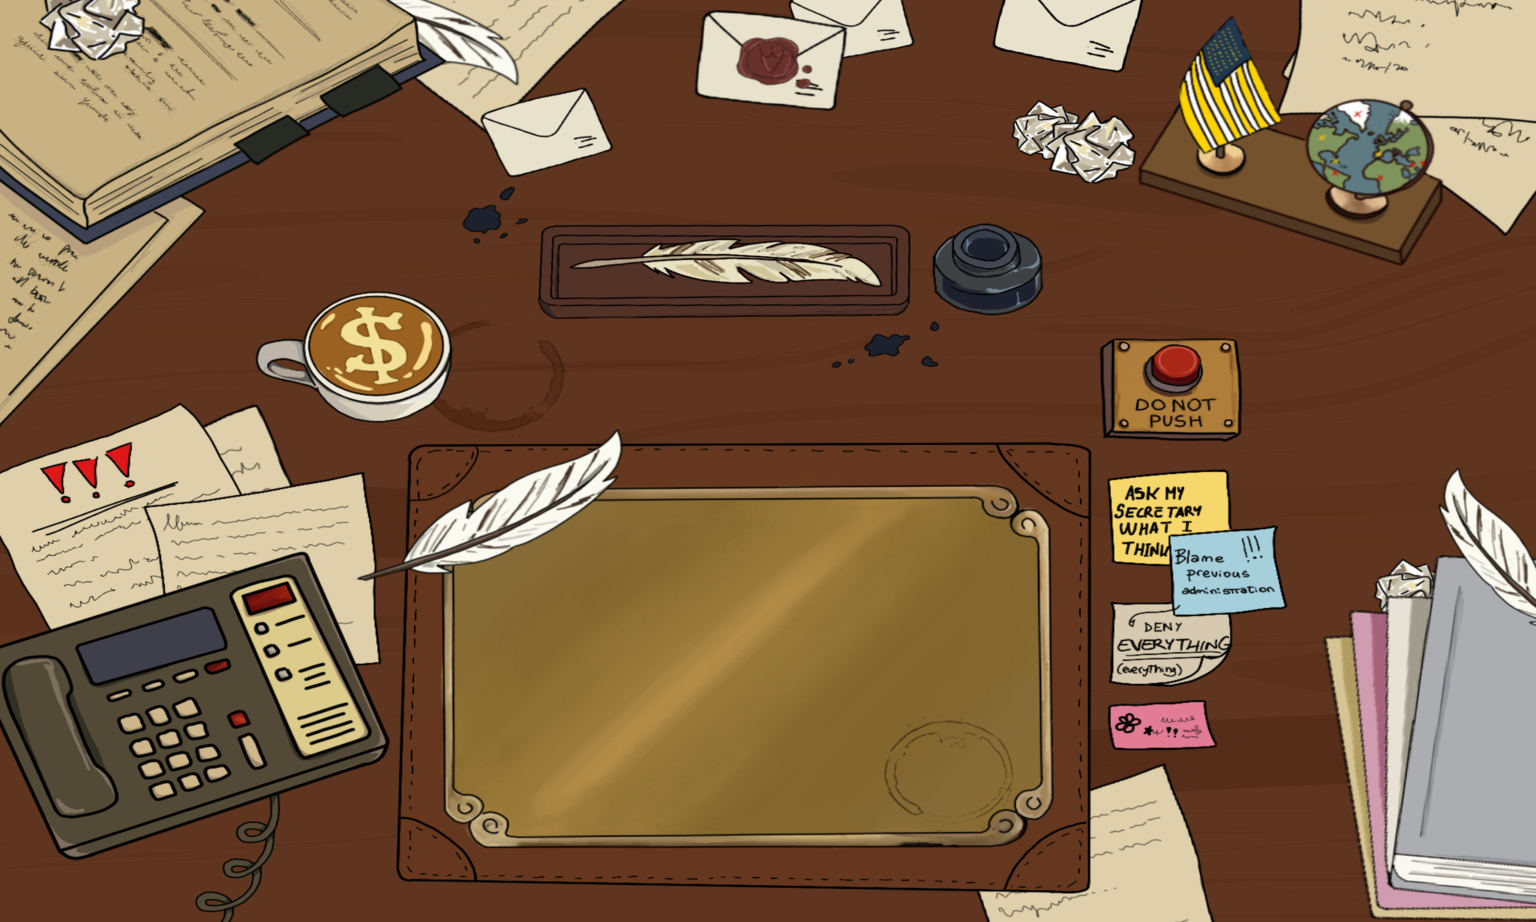
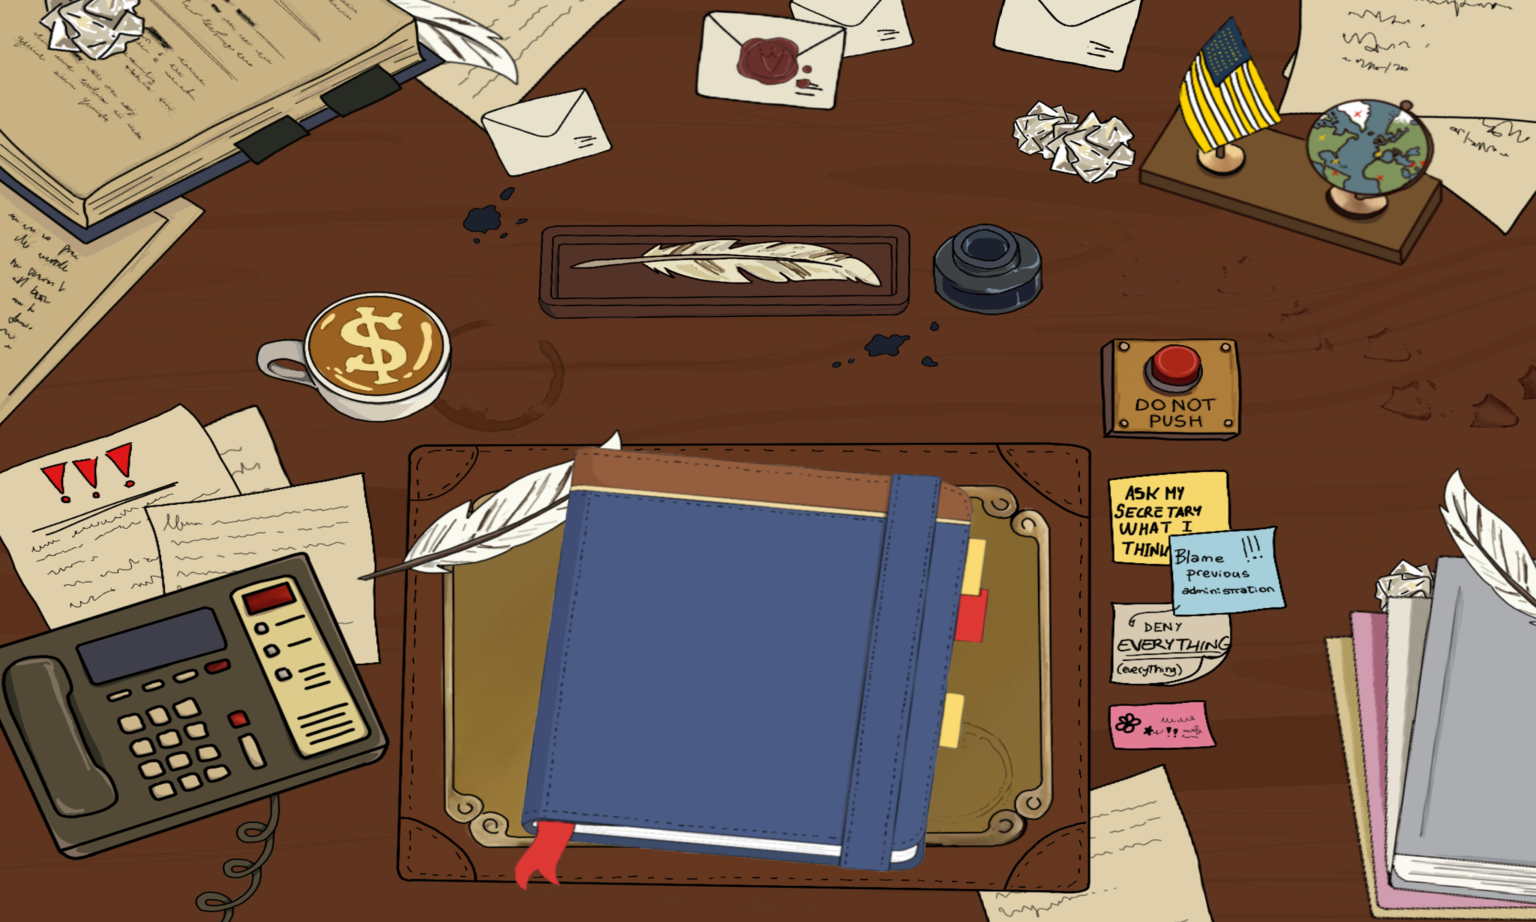
Pantalla incial: carga del spritesheet y animacion inicial

Changed region(s): [[0.3125, 0.4859, 0.6562, 0.9718], [0.9688, 0.3948, 1.0, 0.4555]]

diff --git a/src/scene/introScene.js b/src/scene/introScene.js
@@ -6,12 +6,65 @@ export default class IntroScene extends Phaser.Scene {
     }
 
     create() {
-        console.log("INTRO");
-        this.add.image(0, 0, 'introScene').setOrigin(0);
 
+        //crear animacion
+        this.anims.create({
+            key: 'openAgenda',
+            frames: this.anims.generateFrameNumbers('animatedAgenda', { start: 0, end: 3 }),
+            frameRate: 2,
+            repeat: 0 //no se repite
+        });
+
+        //sprite incial
+        this.sfondo = this.add.sprite(0, 0, 'animatedAgenda', 0).setOrigin(0);
+
+        //esperamos el click del usuario
+        this.sfondo.setInteractive({ useHandCursor: true });
+
+        //texto para el usuario
+        this.clickText = this.add.text(750, 425, 'Haz clic para empezar', {
+            fontSize: '36px',
+            fontStyle: 'bold',
+            color: '#ffffff',
+            fontFamily: 'Georgia',
+            stroke: '#000000',
+            strokeThickness: 5
+        }).setOrigin(0.5);
+
+        this.pulseTween = this.tweens.add({
+            targets: this.clickText,
+            alpha: { from: 0.1, to: 0.6 },
+            duration: 1200,
+            ease: 'Linear',
+            yoyo: true,
+            repeat: -1
+        });
+
+        //esperamos a que el usuario haga clic en cualquier parte de la escena
+        this.sfondo.setInteractive({ useHandCursor: true });
+
+        this.sfondo.on('pointerdown', () => {
+            this.pulseTween.stop();
+            this.clickText.destroy();
+
+            //iniciamos la animacion
+            this.sfondo.play('openAgenda');
+            this.sfondo.disableInteractive();
+        });
+
+
+        //botones
+        this.sfondo.on('animationcomplete', (animation) => {
+            if (animation.key === 'openAgenda') {
+                this.mostraMenu();
+            }
+        });
+    }
+
+    mostraMenu() {
         const createMenuButton = (x, y, text, callback) => {
-            const width = 300;
-            const height = 62;
+            const width = 220;
+            const height = 48;
 
             const shadow = this.add.rectangle(x + 4, y + 5, width, height, 0x000000, 0.18).setOrigin(0.5);
             const bg = this.add.rectangle(x, y, width, height, 0xf7f2ea, 0.82)
@@ -20,7 +73,7 @@ export default class IntroScene extends Phaser.Scene {
                 .setInteractive({ useHandCursor: true });
 
             const label = this.add.text(x, y, text, {
-                fontSize: '28px',
+                fontSize: '24px',
                 fontStyle: 'bold',
                 color: '#26304a',
                 fontFamily: 'Georgia'
@@ -58,15 +111,16 @@ export default class IntroScene extends Phaser.Scene {
             return { shadow, bg, label };
         };
 
-        createMenuButton(1120, 380, 'Tutorial', () => {
+        //colocacion de botones en la agenda abierta
+        createMenuButton(580, 520, 'Tutorial', () => {
             this.scene.start('tutorialScene');
         });
-        
-        createMenuButton(1120, 470, 'Nueva Partida', () => {
+
+        createMenuButton(560, 620, 'Nueva Partida', () => {
             this.scene.start('gameScene');
         });
 
-        createMenuButton(1120, 560, 'Opciones', () => {
+        createMenuButton(540, 720, 'Opciones', () => {
             this.scene.start('configurationScene', {
                 returnScene: 'introScene',
                 openedFromPause: false

diff --git a/src/boot.js b/src/boot.js
@@ -1,6 +1,6 @@
 import Phaser from 'phaser'
 // PRINCIPAL SCENE ASSETS
-import introScene from '../assets/scenes/introScene.png'  
+import agendaSheet from '../assets/scenes/agendaSpritesheet.png'
 import loadScene from '../assets/scenes/loadScene.png'                                                        //NEED TO BE REPLACE
 import configScene from '../assets/scenes/configScene.png'
 
@@ -159,7 +159,10 @@ export default class Boot extends Phaser.Scene {
 
     // PRINCIPAL SCENE ASSETS
     this.load.image('loadScene', loadScene);
-    this.load.image('introScene', introScene);
+    this.load.spritesheet('animatedAgenda', agendaSheet, { 
+      frameWidth: 1536, 
+      frameHeight: 922 
+    });
     this.load.image('configScene', configScene);
     // TUTORIAL ASSETS
     this.load.image('tutorialAnimals1', tutorialAnimals1);
